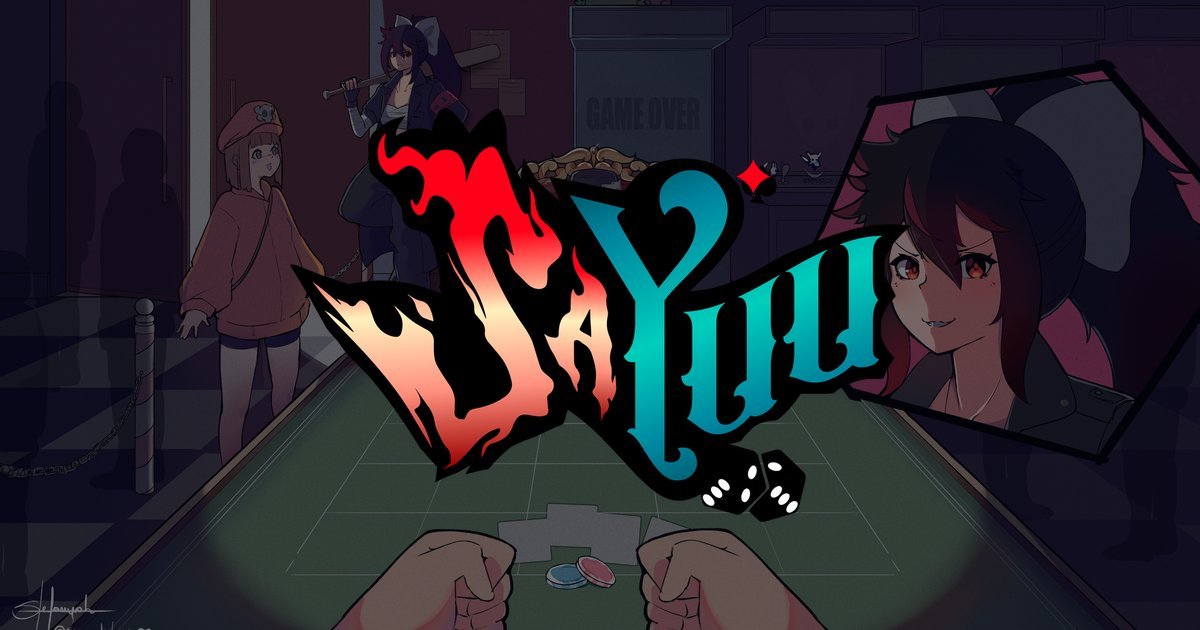
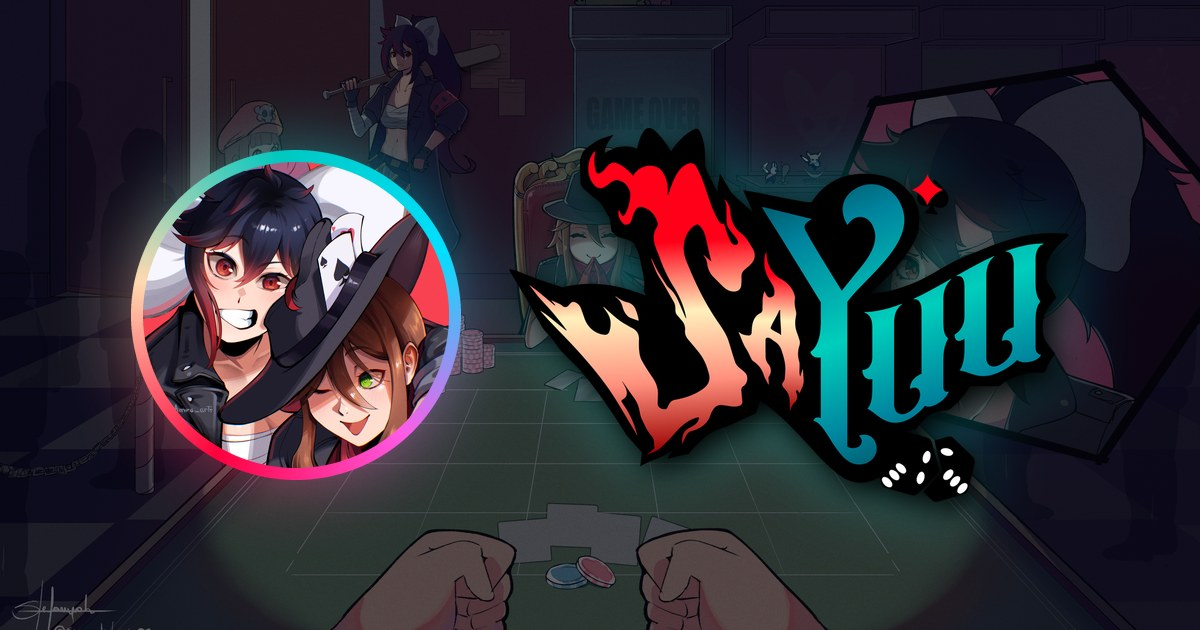
Imagem preview atualizada

diff --git a/index.html b/index.html
@@ -5,17 +5,26 @@
   <meta name="viewport" content="width=device-width, initial-scale=1, viewport-fit=cover">
   <title>SaYuuVT</title>
   <meta name="description" content="SaYuuVT — VTuber e streamer. Todas as redes sociais e contato profissional em um só lugar.">
-  <meta name="theme-color" content="#0a0c19">
+  <!-- Cor da barra do tema no celular; o Discord usa a mesma cor na faixa lateral do cartão de preview -->
+  <meta name="theme-color" content="#ff003c">
 
   <meta property="og:type" content="website">
+  <meta property="og:site_name" content="SaYuuVT">
   <meta property="og:title" content="SaYuuVT">
   <meta property="og:description" content="Lives na Twitch, vídeos, redes sociais e contato profissional.">
   <meta property="og:url" content="https://sayuuvt.github.io/">
   <meta property="og:image" content="https://sayuuvt.github.io/assets/og-image.jpg">
+  <meta property="og:image:type" content="image/jpeg">
+  <meta property="og:image:width" content="1200">
+  <meta property="og:image:height" content="630">
+  <meta property="og:image:alt" content="SaYuuVT: foto de perfil e logo sobre uma cena de poker em tons escuros">
   <link rel="canonical" href="https://sayuuvt.github.io/">
   <meta property="og:locale" content="pt_BR">
   <meta name="twitter:card" content="summary_large_image">
   <meta name="twitter:site" content="@SaYuuVT">
+  <meta name="twitter:title" content="SaYuuVT">
+  <meta name="twitter:description" content="Lives na Twitch, vídeos, redes sociais e contato profissional.">
+  <meta name="twitter:image" content="https://sayuuvt.github.io/assets/og-image.jpg">
 
   <link rel="icon" type="image/png" href="assets/favicon.png">
   <link rel="apple-touch-icon" href="assets/favicon.png">

diff --git a/tools/optimize-images.py b/tools/optimize-images.py
@@ -50,12 +50,84 @@ avatar = Image.open(SRC / "sayuu2.png").convert("RGB")
 avatar.thumbnail((640, 640), Image.LANCZOS)
 save(avatar, "avatar.webp", quality=86, method=6)
 
-# Imagem de compartilhamento (Open Graph) 1200x630: bg escurecido + logo
-og = fit_width(bg, 1200)
-top = (og.height - 630) // 2
-og = og.crop((0, top, 1200, top + 630))
-og = Image.blend(og, Image.new("RGB", og.size, (5, 6, 16)), 0.55)
-og_logo = logo.copy()
-og_logo.thumbnail((620, 420), Image.LANCZOS)
-og.paste(og_logo, ((1200 - og_logo.width) // 2, (630 - og_logo.height) // 2), og_logo)
-save(og, "og-image.jpg", quality=85)
+# Imagem de compartilhamento (Open Graph) 1200x630 — Discord, WhatsApp, X etc.
+# Mesmo layout do site: foto com anel neon à esquerda, logo à direita, sobre o bg escurecido.
+import math
+from PIL import ImageChops, ImageDraw, ImageFilter
+
+W, H = 1200, 630
+RING = [(255, 0, 60), (255, 217, 176), (0, 200, 192), (0, 224, 255), (255, 91, 232), (255, 0, 60)]
+
+
+def ring_color(t):
+    pos = (t % 1.0) * (len(RING) - 1)
+    i = int(pos)
+    f = pos - i
+    a, b = RING[i], RING[min(i + 1, len(RING) - 1)]
+    return tuple(round(a[k] + (b[k] - a[k]) * f) for k in range(3))
+
+
+def conic_disc(size):
+    """Disco com gradiente cônico (equivalente ao conic-gradient do CSS do site)."""
+    img = Image.new("RGB", (size, size))
+    px = img.load()
+    c = size / 2
+    for y in range(size):
+        for x in range(size):
+            ang = (math.degrees(math.atan2(y - c, x - c)) + 90 - 210) % 360
+            px[x, y] = ring_color(ang / 360)
+    return img
+
+
+def circle_mask(size, scale=4):
+    big = Image.new("L", (size * scale, size * scale), 0)
+    ImageDraw.Draw(big).ellipse((0, 0, size * scale - 1, size * scale - 1), fill=255)
+    return big.resize((size, size), Image.LANCZOS)
+
+
+og = fit_width(bg, W)
+top = (og.height - H) // 2
+og = og.crop((0, top, W, top + H))
+og = Image.blend(og, Image.new("RGB", og.size, (5, 6, 16)), 0.62)
+
+# Vinheta: bordas escuras, centro mais claro
+vig = Image.new("L", (W, H), 0)
+ImageDraw.Draw(vig).ellipse((-W * 0.15, -H * 0.35, W * 1.15, H * 1.35), fill=255)
+vig = vig.filter(ImageFilter.GaussianBlur(120))
+og = Image.composite(og, Image.blend(og, Image.new("RGB", og.size, (3, 4, 10)), 0.7), vig)
+
+AV, RING_W = 330, 12
+av_img = Image.open(SRC / "sayuu2.png").convert("RGB").resize((AV - RING_W * 2, AV - RING_W * 2), Image.LANCZOS)
+disc = conic_disc(AV)
+
+# Logo (largura alvo) e posições: grupo foto+logo centralizado
+lg = logo.copy()
+lg.thumbnail((560, 400), Image.LANCZOS)
+GAP = 48
+total = AV + GAP + lg.width
+x0 = (W - total) // 2
+ay = (H - AV) // 2
+lx, ly = x0 + AV + GAP, (H - lg.height) // 2
+
+# Brilho (glow) atrás do anel e da logo
+glow = Image.new("RGB", (W, H), (0, 0, 0))
+glow.paste(disc, (x0, ay), circle_mask(AV))
+glow_logo = Image.new("RGB", lg.size, (0, 200, 192))
+glow.paste(glow_logo, (lx, ly), lg.getchannel("A"))
+glow = glow.filter(ImageFilter.GaussianBlur(34))
+og = ImageChops.screen(og, Image.eval(glow, lambda v: int(v * 0.55)))
+
+# Sombra da logo
+shadow = Image.new("RGBA", (W, H), (0, 0, 0, 0))
+sh_alpha = Image.new("L", (W, H), 0)
+sh_alpha.paste(lg.getchannel("A"), (lx + 6, ly + 10))
+shadow.putalpha(sh_alpha.filter(ImageFilter.GaussianBlur(14)))
+og.paste(shadow, (0, 0), shadow)
+
+# Anel + foto + logo
+og.paste(disc, (x0, ay), circle_mask(AV))
+inner = AV - RING_W * 2
+og.paste(av_img, (x0 + RING_W, ay + RING_W), circle_mask(inner))
+og.paste(lg, (lx, ly), lg)
+
+save(og, "og-image.jpg", quality=88)
